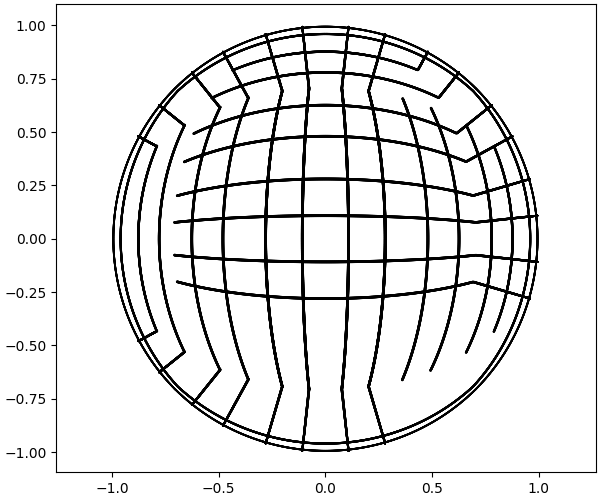
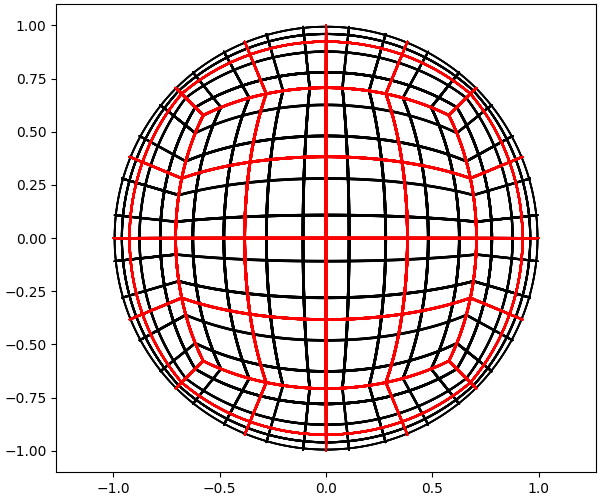
Some array bug fixed

diff --git a/function_Cubed_sphere_grid_equiang.py b/function_Cubed_sphere_grid_equiang.py
@@ -26,21 +26,21 @@ def legendre_gauss_lobatto(a,b,N):
     apb= (a+b)/2.0
     bma= (b-a)/2.0
     
-    nh= np.floor(N+1)/2.0
-    Np= N+1
+    #nh= np.floor(N+1)/2.0
+    #Np= N+1
     
     xg= np.zeros([N])
     wg= np.zeros([N])
     xx=0
     
     xg[0]= -1
-    wg[0]=2/(N*(N-1))
-    xg[N-1]= +1
-    wg[N-1]=2/(N*(N-1))
+    wg[0]=2.0/(N*(N-1))
+    xg[N-1]= +1.0
+    wg[N-1]=2.0/(N*(N-1))
 
     for i in range(1,N-1):
         #x= cos( (2*i-1)*pi/(2*N+1) );
-        x=(1-(3*(N-2))/(8*(N-1)**3)) * np.cos(np.pi*(4*i-3)/(4*(N-1)+1))
+        x=(1.0-(3.0*(N-2.0))/(8.0*(N-1)**3)) * np.cos(np.pi*(4.0*(i+1)-3)/(4.0*(N-1)+1))
     
         for j in range(100):
             P0=1
@@ -56,19 +56,19 @@ def legendre_gauss_lobatto(a,b,N):
                 dpp1= dpp
                 dppp1= dppp
          
-                P0= (2*n-1)*x*P1/n - (n-1)*P2/n
-                dp= n*(P1-x*P0)/(1-x*x) # the same with pp= (n/(x*x-1))*(x*P0-P1)
-                dpp= ( 2*x*dp - n*(n+1)*P0   )/(1-x*x)
-                dppp= ( 2*x*dpp-(n*(n+1)-2)*dp)/(1-x*x)
-            xx= x-(2*dp1*dpp1)/(2*dpp1*dpp1 - dp1*dppp1)
+                P0= (2.0*n-1)*x*P1/n - (n-1)*P2/n
+                dp= n*(P1-x*P0)/(1.0-x*x) # the same with pp= (n/(x*x-1))*(x*P0-P1)
+                dpp= ( 2.0*x*dp - n*(n+1)*P0   )/(1.0-x*x)
+                dppp= ( 2.0*x*dpp-(n*(n+1)-2.0)*dp)/(1.0-x*x)
+            xx= x-(2.0*dp1*dpp1)/(2.0*dpp1*dpp1 - dp1*dppp1)
             if (np.abs(xx-x)<10.e-15):
                break
             x= xx
  
-        xg[Np-i-1]= x*bma+apb
-        xg[   i-1]= -xg[Np-i-1]
-        wg[Np-i-1]= 2.0/(N*(N-1)*P1*P1)
-        wg[   i-1]=  wg[Np-i-1]
+        xg[N-i]= x*bma+apb
+        xg[  i]= -xg[N-i]
+        wg[N-i]= 2.0/(N*(N-1)*P1*P1)
+        wg[  i]=  wg[N-i]
 
     #x=xg
     #w=wg
@@ -95,14 +95,14 @@ def function_Cubed_sphere_grid_equiang (No,Ne,IB):
    pi2 = np.pi*2.0
    
 
-   xg= np.zeros([Ng])
-   wg= np.zeros([Ng])
+   xg= np.zeros(Ng)
+   wg= np.zeros(Ng)
    
    #%%%%%%%%%%%%   Call GLL subroutine %%%%%%%%%%%%%
    xg, wg = legendre_gauss_lobatto(-1,+1,Ng)
    #%%%%%%%%%%%%%%%%%%%%%%%%%%%%%%%%%%%%%%%%%%%%%%%%
 
-   ELEp = np.zeros(Ne+1)
+   ELEp = np.zeros(Ne)
    Eratio = np.zeros([Ng,Ne])
    xgrid = np.zeros(IB)
    xcoord = np.zeros([Nge,IB])
@@ -116,40 +116,30 @@ def function_Cubed_sphere_grid_equiang (No,Ne,IB):
    z = np.zeros([IB,Nge,Nfaces])
    
    # For elements line  ( -pi/4 ~ pi/4 )
-   for n in range (Ne+1):
-         ELEp[n] = -np.pi/4 + (n-1)*de_ang
-   #     ELEp[n] = -1 + (n-1)*de_x
+   for n in range (Ne):
+         ELEp[n] = -np.pi/4 + n*de_ang
+   #     ELEp[n] = -1 + n*de_x # For equidis
    
    for k in range (Ng):
       for n in range (Ne):
-          Eratio[n,k] = ELEp[n]+de_ang/2  + xg[k]*(de_ang/2)
-      #   Eratio[n,k] = ELEp[n]+de_x/2  + xg[k]*(de_x/2)
+          Eratio[k,n] = ELEp[n]+de_ang/2  + xg[k]*(de_ang/2)
+      #   Eratio[n,k] = ELEp[n]+de_x/2  + xg[k]*(de_x/2) # For equidis
    
    for i in range(IB):
-        xgrid[i] = -np.pi/4 + (i-1)*dthe 
-   #    xgrid[i] = -1.0 + (i-1)*dx 
+        xgrid[i] = -np.pi/4 + i*dthe 
+   #    xgrid[i] = -1.0 + i*dx  # For equidis
    
    ic = 0
    for n in range(Ne):
        for k in range(Ng):
            for i in range(IB):
-               xcoord[ic,i] = Eratio[n,k]
+               xcoord[ic,i] = Eratio[k,n]
            ic = ic + 1
 
-#  %for k = 1:Nge
-#      %plot(xgrid(k,:)) ; hold on;
-#     % scatter(xcoord(k,:),xgrid(:),'filled','b','linewidth',1) ; hold on; 
-#     % scatter(xgrid(:),xcoord(k,:),'filled','b','linewidth',1) ; hold on; 
-#  
-#  %   scatter(xcoord(k,:),xgrid(:),2,'filled','b','linewidth',2) ; hold on; 
-#  %   scatter(xgrid(:),xcoord(k,:),2,'filled','b','linewidth',2) ; hold on; 
-#  %end
-#  axis equal;
-   
    ic = 0
    for n in range(Ne):
        for k in range(Ng):
-           cart_y[ic] = a*np.tan(Eratio[n,k])
+           cart_y[ic] = a*np.tan(Eratio[k,n])
            ic = ic + 1
    
    for j in range(Nge):
@@ -160,19 +150,19 @@ def function_Cubed_sphere_grid_equiang (No,Ne,IB):
    for ip in range(Nfaces):
        for j in range(Nge):
            for i in range(IB):
-               if (ip == 1):
-                  sphere_lat[i,j,ip]=  np.arcsin(cart_y[j]/cart_r[i,j])
+               if (ip == 0):
+                  sphere_lat[i,j,ip]= np.arcsin(cart_y[j]/cart_r[i,j])
                   sphere_lon[i,j,ip]= np.arctan2(cart_x[i,j], a)
-               elif(ip == 2):
-                  sphere_lat[i,j,ip]=  np.arcsin(cart_y[j]/cart_r[i,j])
+               elif(ip == 1):
+                  sphere_lat[i,j,ip]= np.arcsin(cart_y[j]/cart_r[i,j])
                   sphere_lon[i,j,ip]= np.arctan2(a,-cart_x[i,j])
-               elif (ip == 3):
-                  sphere_lat[i,j,ip]=  np.arcsin(cart_y[j]/cart_r[i,j])
+               elif (ip == 2):
+                  sphere_lat[i,j,ip]= np.arcsin(cart_y[j]/cart_r[i,j])
                   sphere_lon[i,j,ip]= np.arctan2(-cart_x[i,j],-a)
-               elif (ip == 4):
-                  sphere_lat[i,j,ip]=  np.arcsin(cart_y[j]/cart_r[i,j])
+               elif (ip == 3):
+                  sphere_lat[i,j,ip]= np.arcsin(cart_y[j]/cart_r[i,j])
                   sphere_lon[i,j,ip]= np.arctan2(-a,cart_x[i,j])
-               elif (ip == 5):
+               elif (ip == 4):
                   yy = np.abs(cart_y[j])
                   xx = np.abs(cart_x[i,j])
                   if (xx > dist_limit or yy > dist_limit):
@@ -180,7 +170,7 @@ def function_Cubed_sphere_grid_equiang (No,Ne,IB):
                   else:
                      sphere_lon[i,j,ip]= 0.0
                   sphere_lat[i,j,ip]=  np.arcsin( a/cart_r[i,j]);
-               elif (ip == 6):
+               elif (ip == 5):
                   yy = np.abs(cart_y[j]);
                   xx = np.abs(cart_x[i,j]);
                   if (xx > dist_limit or yy > dist_limit): 

diff --git a/EXE_Cubed_sphere_surf_color_topo.py b/EXE_Cubed_sphere_surf_color_topo.py
@@ -1,3 +1,4 @@
+#from mpl_toolkits import mplot3d
 import matplotlib
 matplotlib.use('Agg')
 import matplotlib.pyplot as plt
@@ -15,13 +16,14 @@ from function_Cubed_sphere_grid_equiang import function_Cubed_sphere_grid_equian
 
 
 No =3    # Polynomial Order
-Ng = No + 1  # GLL points
 Ne = 4       # #Element
-Nge = Ng*Ne
 IB = 501  # Resolution
+
+Ng = No + 1  # GLL points
+Nge = Ng*Ne
 Nfaces = 6
 
-pi180  = np.pi/180
+#------------------------------------------------------------------------
 
 x = np.zeros([IB,Nge,Nfaces])
 y = np.zeros([IB,Nge,Nfaces])
@@ -29,16 +31,43 @@ z = np.zeros([IB,Nge,Nfaces])
 
 x,y,z = function_Cubed_sphere_grid_equiang (No,Ne,IB)
 
+fig,ax = plt.subplots(1,figsize=(6,5),constrained_layout=True)
+#fig = plt.subplots(figsize=(6,5),constrained_layout=True)
+#------------------------------------------------------------------------
 
 # Display ----------------------------------------------------
 
-fig,ax = plt.subplots(1,figsize=(6,5),constrained_layout=True)
+#ax = plt.axes(projection="3d")
 
 for ip in range(Nfaces):
     for k in range(Nge):
-        ax.scatter(x[:,k,ip],y[:,k,ip],z[:,k,ip],color='k')
-        ax.scatter(y[:,k,ip],x[:,k,ip],z[:,k,ip],color='k')
-        ax.scatter(z[:,k,ip],x[:,k,ip],y[:,k,ip],color='k')
+        #ax.scatter3D(x,y,z,s=10)
+        ax.scatter(x[:,k,ip],y[:,k,ip],z[:,k,ip],c='k')
+        ax.scatter(y[:,k,ip],x[:,k,ip],z[:,k,ip],c='k')
+        ax.scatter(z[:,k,ip],x[:,k,ip],y[:,k,ip],c='k')
+
+#------------------------------------------------------------------------
+# Another set for red colored grid
+
+No = 1    # Polynomial Order
+#Ne = 3       # #Element
+IB = 1001  # Resolution
+
+Ng = No + 1  # GLL points
+Nge = Ng*Ne
+
+xr = np.zeros([IB,Nge,Nfaces])
+yr = np.zeros([IB,Nge,Nfaces])
+zr = np.zeros([IB,Nge,Nfaces])
+
+xr,yr,zr = function_Cubed_sphere_grid_equiang (No,Ne,IB)
+
+
+for ip in range(Nfaces):
+    for k in range(Nge):
+        ax.scatter(xr[:,k,ip],yr[:,k,ip],zr[:,k,ip],color='r')
+        ax.scatter(yr[:,k,ip],xr[:,k,ip],zr[:,k,ip],color='r')
+        ax.scatter(zr[:,k,ip],xr[:,k,ip],yr[:,k,ip],color='r')
 
 ax.axis('equal')
 plt.savefig("fig_test.png")
